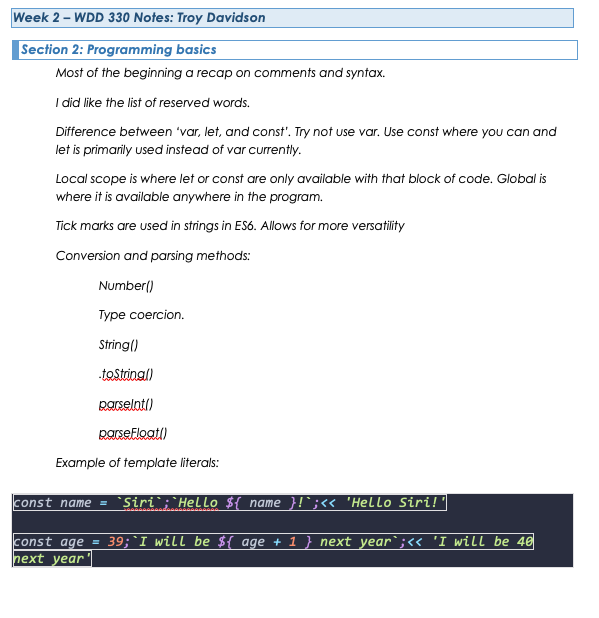
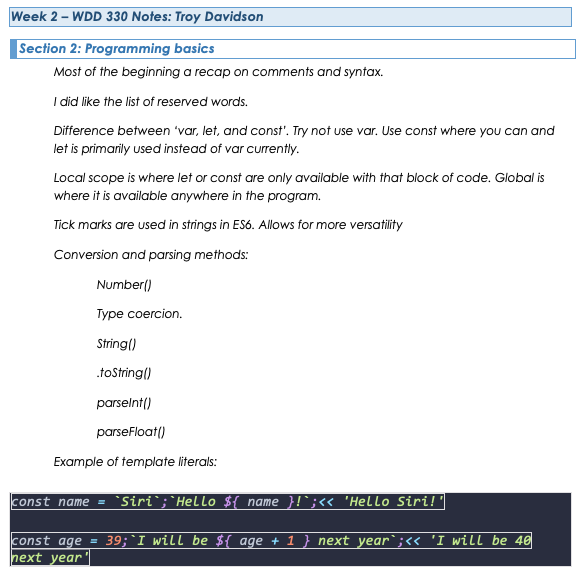
update

Changed region(s): [[0.0, 0.0, 0.988, 0.9983]]

diff --git a/week2.html b/week2.html
@@ -13,15 +13,17 @@
     <h2>Week02</h2>
     <a href="/index.html">Go Back Home</a>
 
-    <div>
-        <img src="/images/section_2.png">
-    </div>
+    <div class="notes-section">
+        <div>
+            <img src="/images/section_2.png">
+        </div>
 
-    <div>
-        <img src="/images/section_3.png">
-    </div>
-    <div>
-        <img src="/images/section_4.png">
+        <div>
+            <img src="/images/section_3.png">
+        </div>
+        <div>
+            <img src="/images/section_4.png">
+        </div>
     </div>
 
 

diff --git a/styles.css b/styles.css
@@ -22,3 +22,9 @@ a {
   .family-pic img{
     width: 800px;
   }
+  body {
+    background-color: lightgray;
+  }
+  .notes-section img{
+    width: 500px;
+  }
